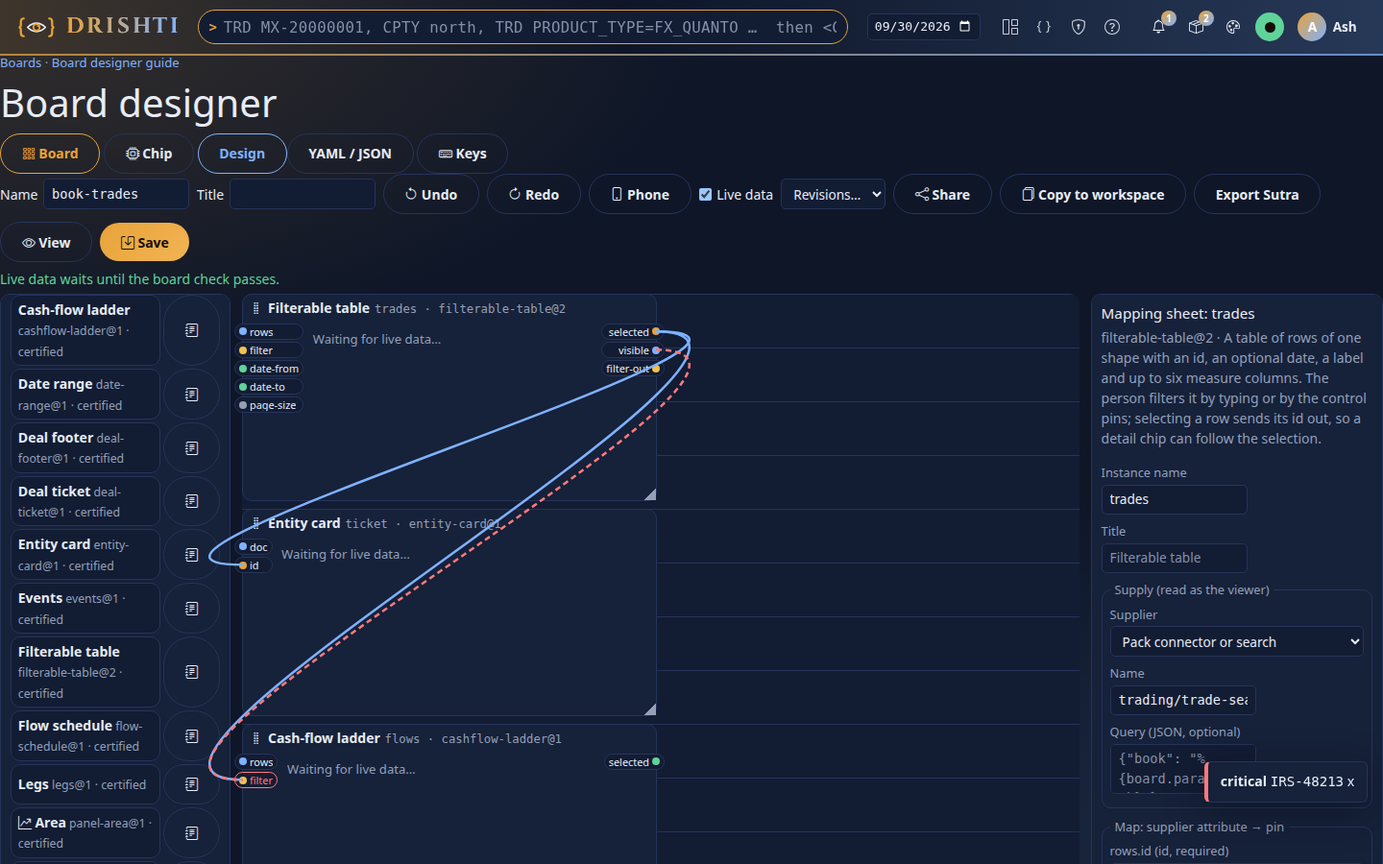
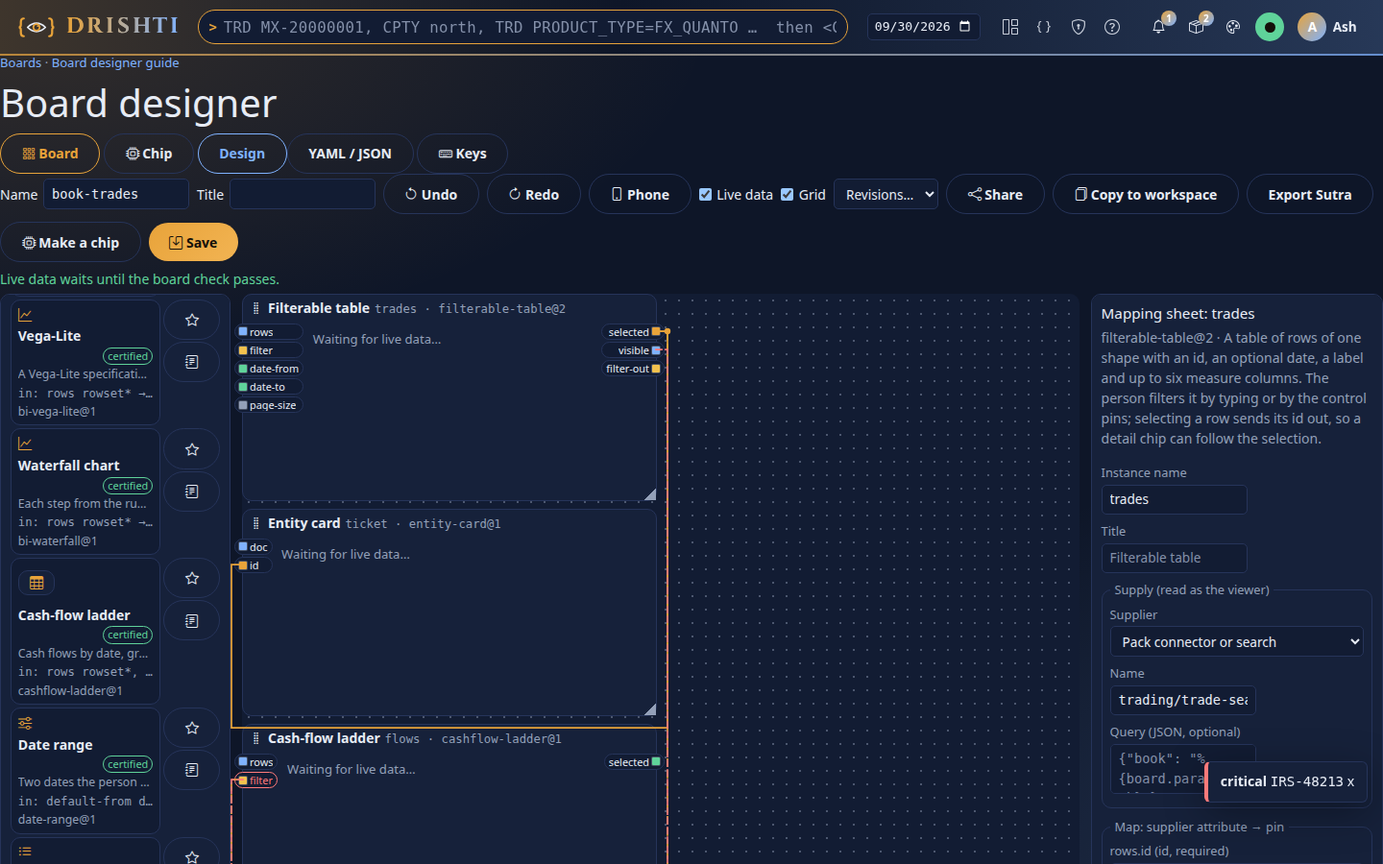
UI Board P4b docs: UI_BOARD_GUIDE's Chip mode (each step in the UI and in YAML, composite chips, Make a chip, candidates), Finding chips, A board looks like a circuit; UI_BOARD.md 12.6 as built (CP-06, CP-07); API_GUIDE's chip designer calls; the help card; CHANGELOG; pictures: Chip mode, the test b

diff --git a/docs/guides/UI_BOARD_GUIDE.md b/docs/guides/UI_BOARD_GUIDE.md
@@ -33,12 +33,14 @@ screen designs. A board opens at `/build/board/<name>`; its viewer at `/ui/b/<na
 The designer has two modes in one shell, one palette area (the Chip Store) and one YAML / JSON tab:
 
 * **Board**: the canvas, pins and traces, the mapping sheet, live data, the Problems list. This guide.
-* **Chip**: authoring a chip. In 2.7.0 it holds the chip's document in the YAML tab, *Save draft*, *Run examples* (the test bench)
-  and *Submit for review*; the full chip designer (manual form, pin table, body editor) comes in phase P4b. See [Chip mode](#chip-mode).
+* **Chip**: authoring a chip: its pins, its body (panels, or chips inside), its manual, the test bench and the release steps. See
+  [Chip mode](#chip-mode).
 
-A screen design (`/build/d/<id>`) opens as a board with **Open as board** (in its header, or in the Boards list): each panel becomes a
-`panel-<kind>` chip. Its bindings are not converted yet (the status line says which); map them in the mapping sheet. **Export Sutra**
-writes a board's panel chips back as a Sutra for a pack, until 3.0.
+A screen design (`/build/d/<id>`) opens as a board with **Open as board** (in its header, or in the Boards list), converted by P5's converter
+(`POST /api/v1/ui/convert/sutra`): a panel a seed chip carries whole becomes that chip, anything else a board-local chip (`local-<panel>`,
+its bindings written over the record's pins, and a Chip Store candidate), the page header a board-local chip whose controls are traced
+into the panels that read them; the status line names the board-local chips. **Export Sutra** paints a board of one record (a parameter
+`id` of a kind) back into a Sutra for a pack (`POST /api/v1/ui/convert/board`), until 3.0.
 
 ## 2. Name the board
 
@@ -52,7 +54,7 @@ title: Book trades
 
 ## 3. Add chips from the Chip Store
 
-UI: search the **Chip Store** on the left (*Certified only* narrows it); the journal button opens a chip's datasheet and manual (pins, types,
+UI: search the **Chip Store** on the left (see [Finding chips](#finding-chips); *Certified only* narrows it); the journal button opens a chip's datasheet and manual (pins, types,
 behaviour, limits, examples). **Drag** a chip onto the grid, or focus it and press **Enter** (it goes below the others). In the mapping sheet
 on the right, rename the instance (`trades`).
 
@@ -93,7 +95,8 @@ takes typed names; the board check and the render have the last word.
 
 ## 5. Draw traces
 
-UI: pins are drawn on each box: in pins on the left edge, out pins on the right, coloured by type. **Drag from an out pin to an in pin**; while
+UI: pins are square pads on each box: in pins on the left edge, out pins on the right, coloured by type; wires are routed as on a
+circuit (see [A board looks like a circuit](#a-board-looks-like-a-circuit)). **Drag from an out pin to an in pin**; while
 you drag, only the compatible in pins light up. By keyboard: Enter on the out pin, then Enter on the in pin (Esc cancels). A selection traced
 into a `filter` pin gets its `filter-on` column by itself (the target's id column). Board parameters are out pins on the strip above the grid.
 
@@ -156,19 +159,172 @@ chips that follow it repaint. Every table chip has **Chart** (K). **Phone layout
 
 ## Chip mode
 
-The **Chip** button (or `/build/chip/<name>`, Build → Designer → **New chip**) switches the same designer to a chip: its document in the YAML /
-JSON tab (`chip`, `version`, `manual`, `pins`, `body`), **Open my draft**, **Save draft**, **Run examples** (each example of the manual
-rendered on the test bench, as you) and **Submit for review**. A chip picked in the Chip Store opens as a copy to start from. The full chip
-designer arrives with phase P4b.
+A chip is a Rachana-grammar Sutra with typed pins and its own manual: a pure function that paints UI. **Chip mode** is the same designer
+(the **Chip** button, `/build/chip/<name>`, or Build → Designer → **New chip**), in five steps, with the chip's whole document in the
+YAML / JSON tab. Any step's mistakes are red at once (the browser checks as you type) and listed under **Chip problems**, each a link to
+where it is; the server's publish check runs on every pause and adds what only it can tell (CP-05, CP-06).
+
+![Chip mode: the body built with the panel tools over the chip's pins](img/ui-board/chip-mode.png)
+
+### Name it
+
+UI: **Chip** (the name), **Version**, **Title** and **Category** in the toolbar; **New** starts over, **Open my draft** reads your saved
+draft, **Save draft** (Ctrl+S) keeps it (compare-and-set: a draft saved elsewhere meanwhile is `409 DRS-5057`).
+
+```yaml
+rachana: 1
+chip: pnl-bars
+version: 1
+title: P&L bars
+category: charts
+```
+
+### 1. Pins
+
+UI: **Add in pin** / **Add out pin**, then per row: the name, the role (**data**: rows or a document; **control**: filters, ids, dates,
+numbers), the type (`id`, `text`, `number`, `bool`, `enum`, `date`, `datetime`, `period`, `measure`, `dimension`, `filter`, `selection`,
+`document`, `rowset`), the columns of a rowset or document (`label:dimension!, value:measure`: `!` required, `*` many), the values of an
+enum, the kind of an id (`of: trading/book`), **Required** and the default. A rowset pin without columns, an enum without values, a default
+of the wrong type or outside the values: red, with why.
+
+```yaml
+pins:
+  in:
+    rows:  { role: data, type: rowset, required: true, shape: { label: { type: dimension, required: true }, value: { type: measure, required: true } } }
+    order: { role: control, type: enum, values: [asc, desc], default: desc }
+  out:
+    selected: { type: dimension }
+```
+
+### 2. Body: panels
+
+UI: **Body: panels** is the screen designer's own panel palette and inspector. **Panel kinds** adds a panel (a table, an hbar, a kv...);
+its rows are your first data pin (`@rows`). The inspector's fields complete pins, not document paths: type `@` (`@rows`, `@.label` for a
+column of the rowset) or `%{` (`%{order}`), or click a pin under **Pins** to put it in the field you were in. A reference that names no pin
+is red (CP-02: `@trades` names no in pin), as is a source key (`connector`, `model`, `sql`...). **Body: Rachana YAML** is the body alone,
+in the grammar, to edit as text.
+
+```yaml
+body:
+  panels:
+    - id: bars
+      kind: hbar
+      rows: "@rows"
+      label: "@.label"
+      value: "@.value"
+      on-select: { emits: selected, value: "@.label" }    # drives the out pin (CP-03)
+```
+
+### 2b. Body: chips (a composite chip: a board with no connectors)
+
+A chip can be built from other chips, like an electronic chip with chips inside. Its body **is a board, with no connector**: no supply
+anywhere inside; its data enters only through its own pins.
+
+UI: **Body: chips** → **Build the body from chips** → **Edit the inner board**: the designer shows Board mode's own canvas (the palette,
+traces, the mapping sheet) for the inner board, with a banner *Inside the chip …*; the supplier pickers are disabled. Place and wire the inner
+chips, then **Done**. Back in **Body: chips**, the table lists every inner pin: what feeds it (a trace, a constant, a chip pin) and
+**Expose as the chip's pin**: name it and it becomes a chip pin of the same type. A required inner pin that nothing feeds is red (CP-07).
+Adding a supply inside is refused at **Done** and by the publish check (CP-07: *a composite chip has no connector*). Chips nest three levels
+deep at most.
+
+```yaml
+body:
+  board:
+    chips:
+      search-box:       { use: search-box@1 }
+      filterable-table: { use: filterable-table@2 }
+    traces:
+      - { from: search-box.filter-out, to: filterable-table.filter }
+  wires:   { rows: filterable-table.rows }          # chip in pin  <- inner in pin
+  exposes: { selected: filterable-table.selected }  # chip out pin <- inner out pin
+pins:
+  in:  { rows: { role: data, type: rowset, required: true, shape: { id: { type: id, required: true } } } }
+  out: { selected: { type: id } }
+```
+
+### 3. Manual
+
+UI: a field per manual key with the prompt of what it needs (purpose, behaviour, defaults, limits, not-for, accessibility), a line per pin,
+and **Add example**, which writes a board fragment using this chip with its required columns mapped, to edit. Anything missing is red
+(CP-01).
+
+```yaml
+manual:
+  purpose: Horizontal bars of a value per label.
+  pins: { rows: "The rows; empty shows nothing.", order: "asc or desc.", selected: "Out. The label clicked." }
+  behaviour: Clicking a bar sends selected.
+  defaults: All rows, descending.
+  limits: Up to 50 bars.
+  examples:
+    - title: A book's P&L
+      board: |
+        chips:
+          c: { use: pnl-bars@1, supply: { connector: trading/trade-search }, map: { rows.label: COUNTERPARTY_NAME, rows.value: NOTIONAL } }
+  not-for: Time series (use a line).
+  accessibility: Read as a list.
+```
+
+### 4. Test bench
+
+UI: **Sample data, per pin**: rows or a document as JSON (made up from the pin's columns to start), a scalar typed; **Use a supplier** renders
+the first example as you and takes its rows (your masks). The chip paints at once from the samples; **Theme** paints it in any theme, **Every
+theme** in all ten in turn, **Phone** at a phone's width. Clicking in the chip shows the values on its out pins. **Pins in use** lists the
+in pins the body never reads and the out pins nothing drives (CP-03). **Run examples** saves the draft, then runs each manual example as a
+test: the board check (CP-05) and a real render, *passes* or *fails* with why. A composite chip is painted chip by chip through its pins.
+
+![The test bench: samples, the chip in a theme, its out pins and the examples as tests](img/ui-board/test-bench.png)
+
+### 5. Release
+
+UI: the versions and their states, **Where used** (the boards on each version), and **Compatibility** against the latest released version:
+what breaks (a pin removed or retyped). Then the steps of P2's lifecycle: **Submit** (the publish check runs on the server), **Approve** or
+**Reject** by a reviewer other than you (four eyes: approving your own chip is `403 DRS-2007`), **Publish**, **Certify**. A compatible
+version may claim `compatible-with` the earlier one, and boards follow it by themselves; a **breaking change is a new major version**: it may
+not claim it (CP-06 at the check, `DRS-2078` at publish), so boards stay on their version until their owner moves them.
+
+```yaml
+version: 2
+compatible-with: [1]     # only when nothing in 1 was removed or retyped
+```
+
+### Make a chip, and the candidates
+
+* **Make a chip** (Board mode's toolbar): tick the wired chips to put inside and name the new chip. They become a composite chip draft;
+  on the board they are replaced by one instance of it, **their supply staying outside** on that instance (its map renamed to the chip's
+  pins) and the traces to the rest of the board rewired to its pins. Their unconnected pins are the new chip's pins.
+* **Candidates** (Chip mode's palette): the board-local chips P5's converter made from pack screens (`local-*`). One opens as
+  `<pack>-<name>@1` to be made generic: its pins named for any supplier, its manual completed, then submitted like any chip.
+* A store chip picked in Chip mode opens as a copy (`<name>-mine@1`) to start from.
+
+## Finding chips
+
+The Chip Store palette searches the id, title, purpose, category and tags, and the pin types: `date`, `measure`, `rowset of trade`,
+`id of book`; every word must match, title and id matches first. The category chips (header, table, chart, ladder, map, kv, timeline,
+feed, text, control, layout) filter at once. **Fits this data** (Board mode): with a chip that has a supply selected, only the chips whose
+required data pins its attributes can feed. Starred chips and your recent ones come first (kept in this browser). Each result shows its
+title, a line of purpose, its pins, the certified badge and the manual button. `/` focuses the search, the arrows move, Enter adds.
+
+## A board looks like a circuit
+
+Traces are routed as on a schematic: straight runs with 90° bends round the boxes, a **hop** where two wires cross (they are not joined), a
+**junction dot** where one out pin fans out to several in pins. Wires are thin, in the theme's accent; hover or select one to highlight it;
+a bad wire is red and dashed. Pins are square pads on the box edge; **Grid** shows a faint grid of dots. With **Live data**, the wires into a
+chip that just got new data show the current flowing for a moment (not when the system asks for reduced motion). Wires re-route as you move
+a chip.
+
+![The book-trades board as a circuit, dark](img/ui-board/circuit-dark.png)
+
+![The same board in the light theme](img/ui-board/circuit-light.png)
 
 ## Keys
 
 | Keys | Does |
 |---|---|
+| / | Search the Chip Store; the arrows move through the results |
 | Enter on a chip in the store | Adds it (Board mode) or opens a copy (Chip mode) |
 | Arrows, Shift+arrows on a box | Move, resize |
 | Enter on an out pin, then on an in pin | Draw a trace (Esc cancels) |
 | Delete | Remove the box or the selected wire |
-| Ctrl+Z, Ctrl+Y, Ctrl+S | Undo, Redo, Save |
+| Ctrl+Z, Ctrl+Y, Ctrl+S | Undo, Redo, Save (Save draft in Chip mode) |
 | g b, g n, g c | Boards, a new board, a new chip |
 | ? | The keys |

diff --git a/docs/architecture/UI_BOARD.md b/docs/architecture/UI_BOARD.md
@@ -925,18 +925,75 @@ as JSON with its problems; `/ui/api-yaml/dump` and `/load` for the YAML tab, the
 * **Problem paths** paint: `traces[i]…` the wire and its target pin, `chips.<instance>…` the box and the named pin.
 * **Screen designs as boards: a thin adapter until P5.** `core/sutra_board.py` maps a design's Sutra to a board of `panel-<kind>@1`
   instances (ids, titles, two columns from `area:`); bindings are listed as notes, not converted. *Export Sutra* writes a board's panel
-  chips back as a Sutra (until 3.0). When P5's converter is merged, both functions call it; the routes (`/build/board-api/from-design/<id>`,
-  `/build/board-api/to-sutra`) stay.
+  chips back as a Sutra (until 3.0). P4b replaced it with P5's converter (12.6); the routes (`/build/board-api/from-design/<id>`,
+  `/build/board-api/to-sutra`) stayed.
 * **Chip mode plugs in** at `ui-chip-editor.js`: the mode (`designer.setMode('chip')`, `/build/chip/<name>`, the `ub:mode` event), the
   shared YAML tab (the chip's document while in Chip mode), the palette (`designer.onChipPick(ref)`) and the test bench (`[data-ce-bench]`,
   each manual example rendered through `POST /ui/render`).
-* **Not in P4:** modules (P6); the full chip designer (P4b); restoring a revision is "load it in the YAML tab, then save"; the BI report
+* **Not in P4:** modules (P6); the full chip designer (P4b, 12.6); restoring a revision is "load it in the YAML tab, then save"; the BI report
   designer stays separate (folding it in: a report is a board of `bi-*` chips; it needs the converter for report pages, the BI
   interactions (cross-filter, drill, slicers) as traces and pins, the Format pane as chip controls, and bookmarks as board params).
 * **Tests.** `tests/test_ui_board.py` (the routes, against the stand-in `tests/ui_board_backend.py`, whose stream has P3's event shapes)
   and `tests/test_ui_board_browser.py` (Chromium: the 3.1 board built by drag, map and wire; a bad wire in red; save, reopen, a 409; the
   YAML tab and Undo; live data; the viewer, a selection, Chart, a live frame, a failing chip; the phone layout; keyboard only; Chip mode;
   ten themes). Pictures: `tests/ui_board_shots.py` → `docs/guides/img/ui-board/`.
+
+### 12.6 As built: P4b
+
+**The chip designer is Chip mode of the one designer** (the product owner: one designer, not two). A chip is a Rachana-grammar Sutra plus
+typed pins plus its own manual, a pure function that paints UI; the guide is [UI_BOARD_GUIDE.md](../guides/UI_BOARD_GUIDE.md#chip-mode).
+
+**Where (drishti-console).** `web/static/js/ui-chip-model.js` (the chip document checked in the browser: the pin table's rules, CP-01 to CP-04,
+CP-07, unused and undriven pins, what breaks against an earlier version, a module made from wired chips), `ui-chip-editor.js` (the document,
+the toolbar, the step tabs, the YAML tab in Chip mode, the problems, the palette's copy and the Candidates), `ui-chip-pins.js` (the pin table
+and the manual form), `ui-chip-body.js` (the body with the screen designer's `build/palette.js` and `build/inspector.js` over a small store
+of the body's panels; `build/expr.js` completes `@pin`, `@.column` and `%{pin}`), `ui-chip-bench.js`, `ui-chip-release.js`,
+`ui-chip-module.js` (composite chips and Make a chip), `ui-board-palette.js` (the Chip Store palette's search, both modes),
+`ui-board-route.js` (the circuit routing). Server (`com.ash.drishti.server.ui.UiChipToolsController`): `POST /ui/chips/check`,
+`POST /ui/convert/sutra`, `POST /ui/convert/board`, `GET /ui/candidates[/{pack}/{board}/{chip}]`
+([API_GUIDE.md](../guides/API_GUIDE.md#the-chip-designers-calls-270-p4b)); `PackScreens.packs()`, `convert()`, `sutraOf()`; the listing's
+`pins` summary (`ChipStore.pinSummary`).
+
+**Corrections and precisions the code forced:**
+* **Checked twice.** The browser checks every keystroke (rule `PIN` for the pin table: names, types, roles, a rowset's columns, an enum's
+  values, typed defaults; CP-01 to CP-04, CP-07); the server's `ChipPublishCheck` runs on each pause through `POST /ui/chips/check` and has the
+  last word (CP-05 needs the store, CP-06 the earlier versions). Submit runs it again (P2).
+* **CP-06** (new): a version that claims `compatible-with` an earlier released one while removing or retyping a pin. A breaking change is a
+  new major version: it may not claim compatibility, so boards stay on their version until their owner moves them (14.1 decision 3); P2's
+  publish refuses the same claim with `DRS-2078`.
+* **Composite chips: a board with no connectors** (the product owner, during P4b). A chip's body may be a board of chips:
+  `body: {board: {chips, traces, layout}, wires: {<chip in pin>: <instance>.<pin>}, exposes: {<chip out pin>: <instance>.<pin>}}`. Its data
+  enters only through its pins. **CP-07** (new, in `ChipPublishCheck`): no supply inside (`body.board.chips.<i>.supply`); every wired chip pin
+  names an inner pin of the same type; every required inner in pin is fed (an inner trace, a chip pin, a constant in `controls`, a default);
+  at most `MAX_DEPTH` = 3 levels of chips in chips. A supply inside is CP-07, not CP-02. In the designer, **Body: chips** edits the inner
+  board on Board mode's own canvas with the supplier pickers disabled, and an exposure table turns inner pins into chip pins. This is the
+  minimal form of 9.5's modules; P3's renderer paints a composite's body only on the bench (chip by chip, client side): rendering it on a
+  board through the render API is P6.
+* **Make a chip** (Board mode) makes such a composite from the chosen instances: their unconnected pins become `<instance>-<pin>` chip pins
+  (a pin set by a constant stays inside), the supplies stay on the outer board (one supply moves onto the new instance with its map renamed;
+  a second one is dropped with a message), traces to the rest of the board are rewired to the chip's pins, and the draft is saved.
+* **The bench paints locally**: the samples are the chip's ViewModel pins, painted by `ui-board-paint.js` as the viewer would; "Use a supplier"
+  renders the first example through `POST /ui/render` (`stream: once`) as the author and takes the chip's pins. The examples as tests are the
+  server's CP-05 per example plus a real render.
+* **Themes on the bench** switch the page's theme while the bench is open (themes are `:root` tokens), and restore it on leaving.
+* **Candidates** come from the converted boards P5 keeps in memory per pack (`PackScreens.boards`); one opens as `<pack>-<name>@1`, version 1.
+* **P4's thin adapter is gone** (`core/sutra_board.py`): `/build/board-api/from-design/<id>` calls `POST /ui/convert/sutra` and
+  `/build/board-api/to-sutra` calls `POST /ui/convert/board`; the console routes are unchanged.
+* **Finding chips** (the product owner, during P4b): the palette loads the listing once (and again on a mode switch) and searches it in the
+  browser: id, title, purpose, category, tags and pin types (`rowset of trade`), title and id first; category chips (from the category and
+  tags, else guessed from the name); "Fits this data" from the selected instance's supplier attributes; favourites and recent chips in
+  `localStorage`; `/`, arrows, Enter.
+* **A board looks like a circuit** (the product owner, during P4b): Manhattan routing with a clearance round the boxes and separate vertical
+  channels per source, hops (SVG arcs) where a later wire's horizontal run crosses an earlier one's vertical, junction dots where a fan-out
+  splits, square pads, a dot grid, the live "current" (none under `prefers-reduced-motion`).
+* **Not in P4b:** rendering composites through the render API and module where-used (P6); choosing which unwired pins become a module's pins
+  by name at Make a chip (they are all exposed, then renamed in the exposure table); the inspector's form for chip-only options (`on-select`,
+  `exposes`) is the Body YAML tab.
+* **Tests.** `UiChipCheckTest` (the check, CP-06, CP-07), `UiMigrationTest` (convert one Sutra, export, the candidates); console:
+  `test_ui_chip.py` (routes against `tests/ui_chip_backend.py`), `test_ui_chip_browser.py` (a chip authored from scratch with a CP-02 in red
+  and fixed, the bench in two themes and on a phone, submit, four eyes, publish, used on a board; a composite chip with one exposed in pin and
+  one out pin used on a board and a connector inside refused; Make a chip from two wired chips; a candidate; Open as board),
+  `test_ui_palette_browser.py`, `test_ui_circuit_browser.py`. Pictures: `tests/ui_board_shots.py`.
 
 ## 13. Later releases
 

diff --git a/docs/guides/API_GUIDE.md b/docs/guides/API_GUIDE.md
@@ -3135,6 +3135,23 @@ curl -s localhost:18480/api/v1/ui/renders/rnd-…/pins -H "Authorization: Bearer
      -d '{"instance":"trades","pin":"selected","value":"1000015"}'
 ```
 
+### The chip designer's calls (2.7.0, P4b)
+
+The Chip mode of Build's designer ([UI_BOARD_GUIDE.md](UI_BOARD_GUIDE.md#chip-mode)) uses these beside the routes above. The listing
+`GET /ui/chips` also carries each chip's `pins` (`{in: [{name, type, role?, required?, of?, columns?}], out: [...]}`) for the palette's search.
+
+| Method | Path | Does |
+|---|---|---|
+| `POST` | `/ui/chips/check` | the body is a chip document (YAML or JSON; the `author` role): the publish check without saving or refusing, `{ok, problems, whereUsed, previous?, breaking?, claimsCompatible?}`: CP-01 to CP-05 (your own drafts usable in the examples), CP-07 for a composite chip, and against the latest released earlier version what breaks (a pin removed or retyped); claiming `compatible-with` it anyway adds `CP-06` |
+| `POST` | `/ui/convert/sutra` | `{sutra, pack?, kind?}` (a role that may save boards): one Sutra converted by P5's converter, `{document, status: clean\|local\|fails, pack, screen, seeds, locals, traces, links, reason, problems}`; the pack is the one owning the Sutra's kind unless named. Not a Sutra (a block): `400 DRS-2070` |
+| `POST` | `/ui/convert/board` | `{document}`: the board painted back into a Sutra by P5's `BoardSutra`, `{yaml, notes}`; `yaml` is null for a board without an `id` parameter of a kind |
+| `GET` | `/ui/candidates?pack=` | the converter's board-local chips of every pack (or one), the Chip Store candidates: `[{pack, board, screen, chip, from, reason}]` |
+| `GET` | `/ui/candidates/{pack}/{board}/{chip}` | one candidate as `{pack, board, chip, document, yaml}`, to open in Chip mode and make generic |
+
+A **composite chip** is a board with no connectors: its body is `{board: {chips, traces, layout}, wires: {<chip in pin>: <instance>.<pin>},
+exposes: {<chip out pin>: <instance>.<pin>}}`. CP-07 refuses a supply inside, a chip pin wired to a missing inner pin or one of another type,
+a required inner pin nothing feeds, and chips nested more than three levels deep.
+
 ### Migration to boards (2.7.0, P5)
 
 Administrators only (`403` otherwise). The design is [UI_BOARD.md](../architecture/UI_BOARD.md) section 11; the switch is in

diff --git a/CHANGELOG.md b/CHANGELOG.md
@@ -17,6 +17,21 @@
 
 ## Unreleased
 
+- **UI Board P4b: the chip designer (2.7.0).** Chip mode of Build's one designer authors a chip in five steps, each also in the YAML tab:
+  the pin table (types, roles, a rowset's columns, enums, defaults, checked as you type), the body built with the screen designer's panel
+  palette and inspector over the pins (a reference that is no pin red, CP-02) or from chips, the manual form with prompts (CP-01), the test
+  bench (samples per pin or from a supplier, every theme, a phone, the manual's examples as tests, unused pins and undriven outputs) and the
+  release steps (submit, approve by another person, publish, certify; where used; a breaking change is a new major version, CP-06).
+  **Composite chips** are boards with no connectors: chips inside, data only through the chip's pins (CP-07: no supply inside, exposed pins
+  of the same type, required inner pins fed, three levels at most). **Make a chip** turns wired chips of a board into one, the supplies
+  staying outside. The converter's board-local chips are **Candidates** in the palette. *Open as board* and *Export Sutra* go through P5's
+  converter (`POST /api/v1/ui/convert/sutra`, `/convert/board`); new `POST /api/v1/ui/chips/check` and `GET /api/v1/ui/candidates`.
+  [UI_BOARD_GUIDE.md](docs/guides/UI_BOARD_GUIDE.md#chip-mode), [UI_BOARD.md 12.6](docs/architecture/UI_BOARD.md).
+- **Finding chips.** The Chip Store palette searches ids, titles, purposes, categories, tags and pin types (`rowset of trade`), title
+  matches first; category chips; *Fits this data* for the selected supplier; favourites and recent chips first; `/`, arrows, Enter.
+- **A board looks like a circuit.** Traces with 90° bends round the boxes, hops at crossings, junction dots at fan-outs, square pin pads,
+  a dot grid, live data current along the wires (not under reduced motion).
+
 - **UI Board P5: the converter and its proof (2.7.0).** Entity pages (Sutras) convert into boards: block uses become the trading
   blocks' seed chips, a panel a `panel-<kind>` seed chip carries whole becomes that chip, anything else a board-local chip (a Chip
   Store candidate), the page header a board-local chip, page controls traces into the panels that read them; BI report pages become
